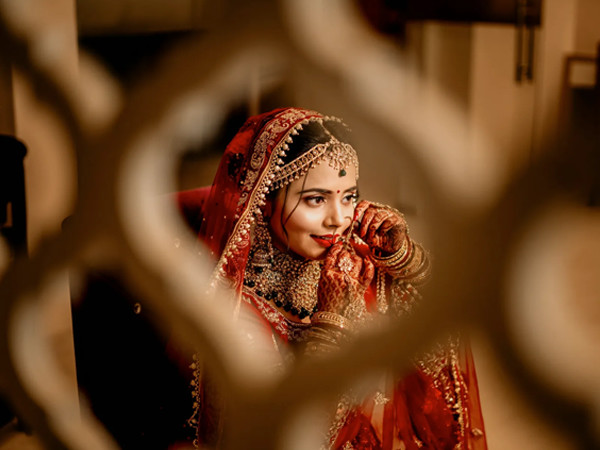
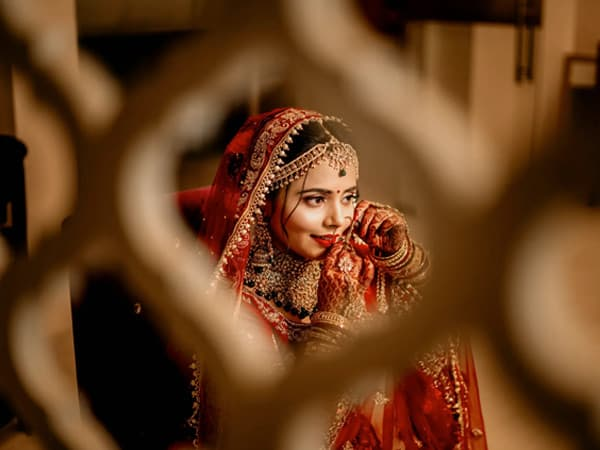
a

diff --git a/index.html b/index.html
@@ -153,7 +153,7 @@
           <div class="box">
             <a href="">
               <div class="img-box">
-                <img src="images/p3.png" alt="">
+                <img src="images/p3.webp" alt="">
               </div>
               <div class="detail-box">
                 <h6>
@@ -178,7 +178,7 @@
           <div class="box">
             <a href="">
               <div class="img-box">
-                <img src="images/p4.png" alt="">
+                <img src="images/p4.webp" alt="">
               </div>
               <div class="detail-box">
                 <h6>
@@ -203,7 +203,7 @@
           <div class="box">
             <a href="">
               <div class="img-box">
-                <img src="images/p5.png" alt="">
+                <img src="images/p5.webp" alt="">
               </div>
               <div class="detail-box">
                 <h6>
@@ -253,7 +253,7 @@
           <div class="box">
             <a href="">
               <div class="img-box">
-                <img src="images/p7.png" alt="">
+                <img src="images/p7.webp" alt="">
               </div>
               <div class="detail-box">
                 <h6>
@@ -278,7 +278,7 @@
           <div class="box">
             <a href="">
               <div class="img-box">
-                <img src="images/p8.png" alt="">
+                <img src="images/p8.webp" alt="">
               </div>
               <div class="detail-box">
                 <h6>
@@ -372,7 +372,7 @@
             </div>
           </div>
           <div class="box offer-box3">
-            <img src="images/o3.jpg" alt="">
+            <img src="images/o3.webp" alt="">
             <div class="detail-box">
               <h2>
                 Upto 20% Off
@@ -599,7 +599,7 @@
             </h4>
             <div class="insta_box">
               <div class="img-box">
-                <img src="images/p1.png" alt="">
+                <img src="images/p1.webp" alt="">
               </div>
               <p>
                 long established fact that a reader
@@ -607,7 +607,7 @@
             </div>
             <div class="insta_box">
               <div class="img-box">
-                <img src="images/p2.png" alt="">
+                <img src="images/p2.webp" alt="">
               </div>
               <p>
                 long established fact that a reader
